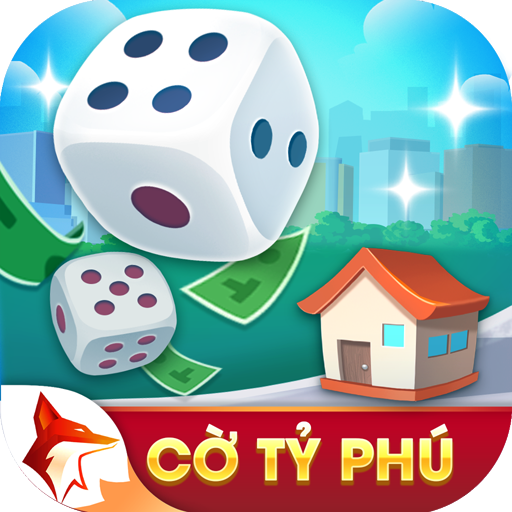
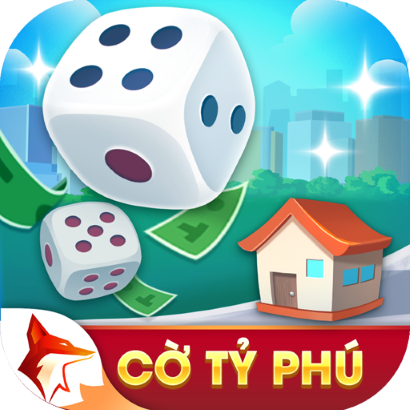
fix image game.html

diff --git a/game.html b/game.html
@@ -660,7 +660,7 @@
                     </div>
                 </div>
                 <div class="item-allGame-list">
-                    <img src="image/gameposter2.png" alt="">
+                    <img src="image/gamePoster2.png" alt="">
                     <div class="footer">
                         <p><b>No Man's Sky</b></p>
                         <p style="width: fit-content;height: 20px;padding:4px;display: flex;justify-content: center;align-items: center;background-color: silver;border-radius: 15px;">Advanture</p>
